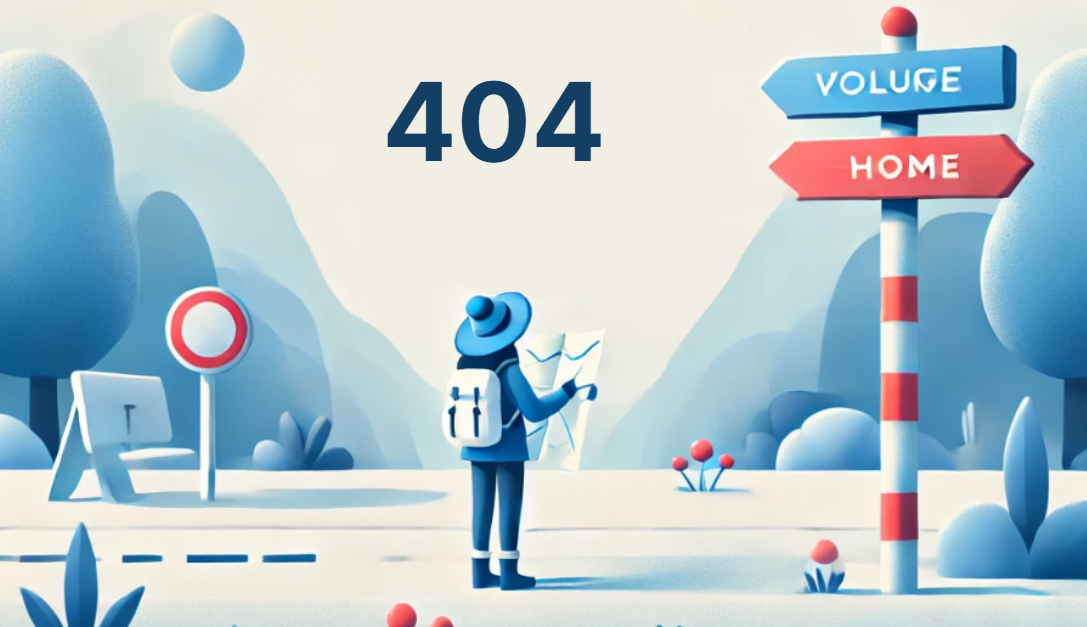
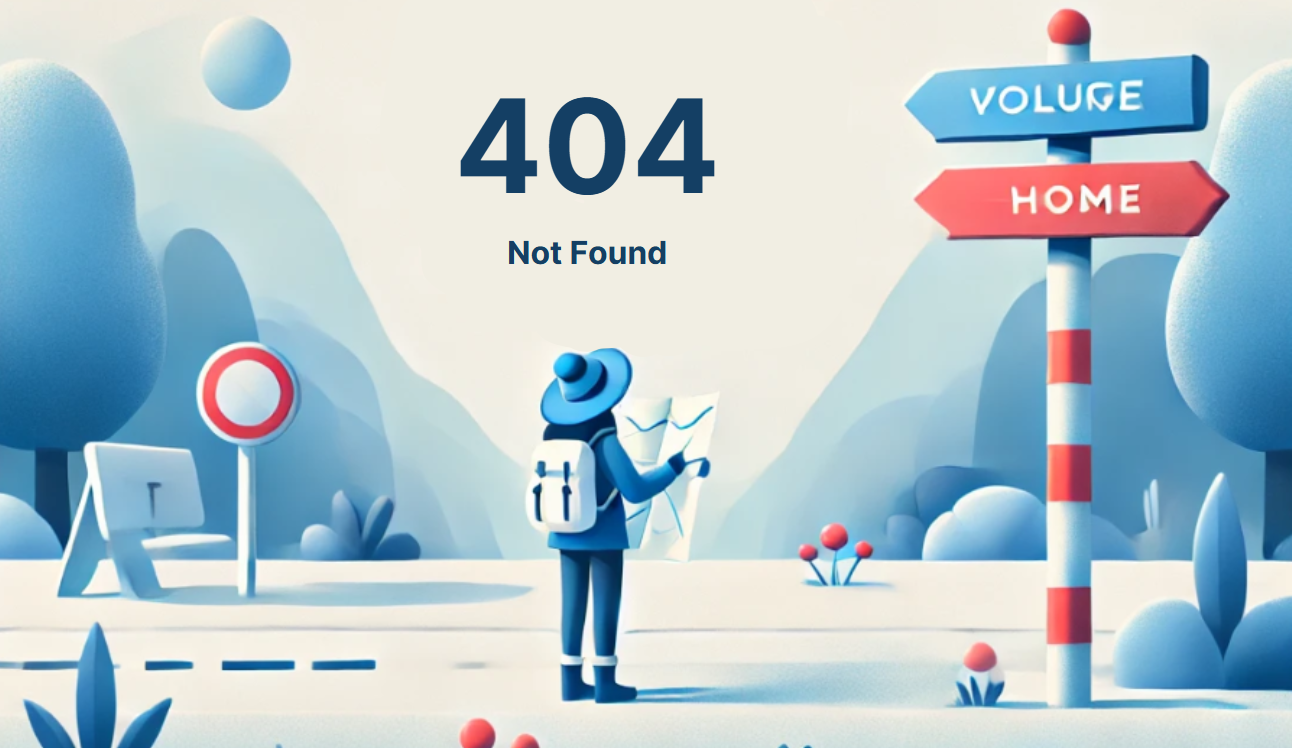
403 and 404 page

diff --git a/static/css/403.css b/static/css/403.css
@@ -1,0 +1,31 @@
+body {
+    margin: 0;
+    padding: 0;
+    overflow: hidden;
+}
+
+body img {
+    width: 100%;
+    height: 100vh;
+    object-fit: cover;
+}
+
+body a {
+    position: absolute;
+    top: 33%;
+    left: 40%;
+    background-color: #08376b;
+    padding: 0.4em 0.7em;
+    color: rgb(255, 255, 255);
+    border-radius: 5px;
+    font-size: 1.5em;
+    transition: background-color 0.2s ease-in-out;
+    text-decoration: none;
+    font-family: inherit;
+    font-weight: 500;
+}
+
+body a:hover {
+    cursor: pointer;
+    background-color: rgba(13, 74, 141, 0.89);
+}

diff --git a/templates/403.html b/templates/403.html
@@ -1,0 +1,17 @@
+{% load static %}
+<!DOCTYPE html>
+<html lang="en">
+<head>
+    <meta charset="UTF-8">
+    <meta name="viewport" content="width=device-width, initial-scale=1.0">
+    <title>403 Page</title>
+    <link rel="stylesheet" href="{% static 'css/403.css' %}">
+</head>
+<body>
+
+    <img src="{% static 'images/403_image.png' %}" alt="403-image">
+
+    <a href="{% url 'home-page' %}">Back to home page</a>
+
+</body>
+</html>
